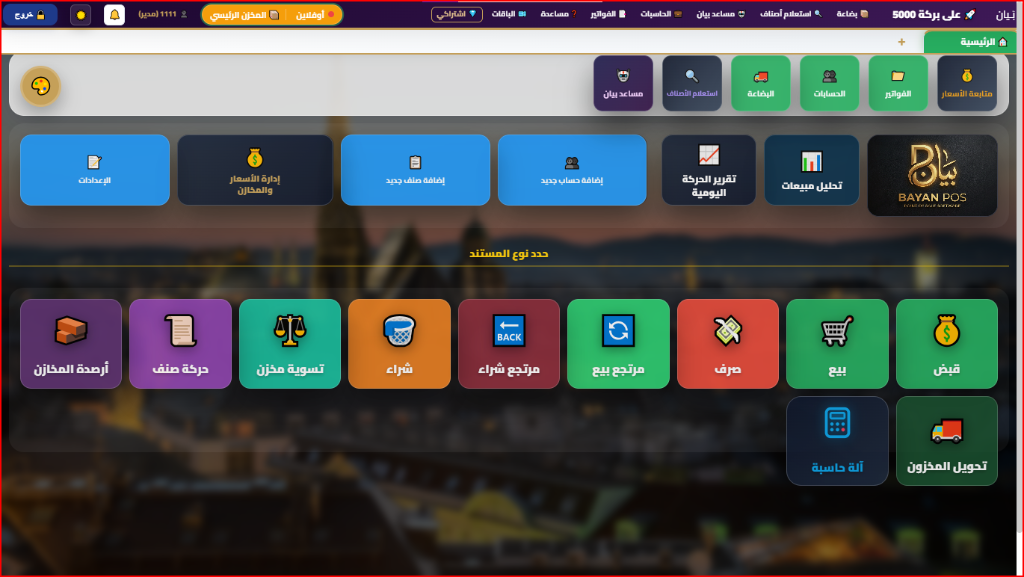
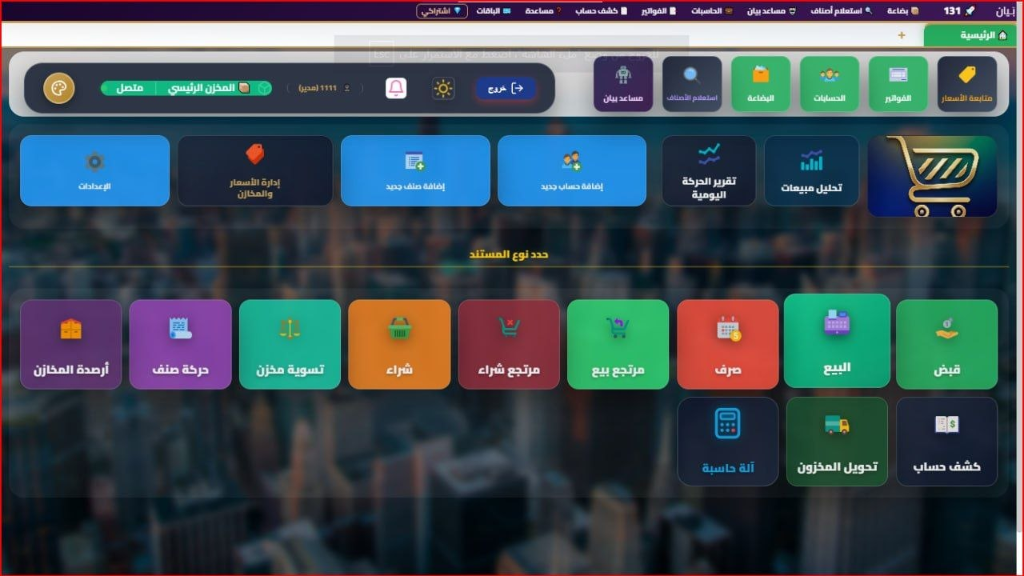
Add files via upload

diff --git a/script.js b/script.js
@@ -1,5 +1,5 @@
 // --- Theme Toggle Logic (Light / Luxury Dark) ---
-(function() {
+(function () {
     const themeKey = 'bayan_site_theme';
     const savedTheme = localStorage.getItem(themeKey);
     if (savedTheme === 'light') {
@@ -10,10 +10,10 @@
 document.addEventListener('DOMContentLoaded', () => {
     const themeToggleBtn = document.getElementById('themeToggle');
     const themeKey = 'bayan_site_theme';
-    
+
     if (themeToggleBtn) {
         const themeIcon = themeToggleBtn.querySelector('i');
-        
+
         const updateIcon = () => {
             if (document.body.classList.contains('light-mode')) {
                 themeIcon.classList.remove('fa-moon');
@@ -39,7 +39,7 @@ document.addEventListener('DOMContentLoaded', () => {
 });
 
 // --- Cache Busting / Auto Update Version Check ---
-(function() {
+(function () {
     const versionKey = 'bayan_site_version';
     const checkVersion = async () => {
         try {
@@ -69,7 +69,7 @@ document.addEventListener('DOMContentLoaded', () => {
 const mobileBtn = document.querySelector('.mobile-menu-btn');
 const navLinks = document.querySelector('.nav-links');
 
-if(mobileBtn && navLinks) {
+if (mobileBtn && navLinks) {
     mobileBtn.addEventListener('click', () => {
         navLinks.classList.toggle('active');
         const icon = mobileBtn.querySelector('i');
@@ -81,7 +81,7 @@ if(mobileBtn && navLinks) {
             icon.classList.add('fa-bars');
         }
     });
-    
+
     // Close menu when clicking on a link
     navLinks.querySelectorAll('a').forEach(link => {
         link.addEventListener('click', () => {
@@ -104,7 +104,7 @@ document.querySelectorAll('.faq-question').forEach(question => {
     question.addEventListener('click', () => {
         const item = question.parentElement;
         const isActive = item.classList.contains('active');
-        
+
         // Close all other FAQs
         document.querySelectorAll('.faq-item').forEach(otherItem => {
             otherItem.classList.remove('active');
@@ -134,9 +134,9 @@ const modal = document.getElementById("imageModal");
 const modalImg = document.getElementById("expandedImg");
 const closeBtn = document.getElementsByClassName("close-modal")[0];
 
-if(modal && modalImg && closeBtn) {
+if (modal && modalImg && closeBtn) {
     document.querySelectorAll('.screen-card img').forEach(img => {
-        img.addEventListener("click", function() {
+        img.addEventListener("click", function () {
             modal.style.display = "block";
             modalImg.src = this.src;
         });
@@ -161,15 +161,15 @@ const registrationForm = document.getElementById("registrationForm");
 const downloadSelection = document.getElementById("downloadSelection");
 
 function resetDownloadModal() {
-    if(registrationForm) {
+    if (registrationForm) {
         registrationForm.reset();
         registrationForm.style.display = "block";
     }
-    if(downloadSelection) {
+    if (downloadSelection) {
         downloadSelection.style.display = "none";
     }
     const androidWarning = document.getElementById("androidWarning");
-    if(androidWarning) {
+    if (androidWarning) {
         androidWarning.style.display = "none";
     }
 }
@@ -181,18 +181,18 @@ if (downloadModal && closeDownloadBtn) {
             e.preventDefault(); // منع التحميل المباشر المؤقت
             const platform = btn.getAttribute("data-platform");
             window.currentSelectedPlatform = platform;
-            
+
             resetDownloadModal(); // إعادة تهيئة النافذة
             downloadModal.style.display = "flex"; // عرض النافذة
-            
+
             // فحص إذا كان المستخدم مسجل مسبقاً على هذا المتصفح لتجنب التكرار
             const existingLeads = JSON.parse(localStorage.getItem("bayan_web_leads") || "[]");
             if (existingLeads.length > 0) {
-                if(registrationForm) registrationForm.style.display = "none";
-                if(platform) {
-                    startDownload({preventDefault:()=>{}}, platform);
+                if (registrationForm) registrationForm.style.display = "none";
+                if (platform) {
+                    startDownload({ preventDefault: () => { } }, platform);
                 } else {
-                    if(downloadSelection) downloadSelection.style.display = "block";
+                    if (downloadSelection) downloadSelection.style.display = "block";
                 }
             }
         });
@@ -211,9 +211,9 @@ if (downloadModal && closeDownloadBtn) {
 }
 
 // معالجة إرسال النموذج والتحميل
-window.handleRegistrationSubmit = function(event) {
+window.handleRegistrationSubmit = function (event) {
     event.preventDefault();
-    
+
     const name = document.getElementById("regName").value;
     const phone = document.getElementById("regPhone").value.trim();
     const businessType = document.getElementById("regBusinessType").value;
@@ -256,7 +256,7 @@ window.handleRegistrationSubmit = function(event) {
         platform: leadData.platform
     };
 
-    fetch("https://script.google.com/macros/s/AKfycbx9Gbq-gQWGWOeM7wvMS1oQ9fJNJgai0aUpByE14-83mPV3VVvoXaqygB_qZmmUtWNt/exec", {
+    fetch("https://script.google.com/macros/s/AKfycbz3BKpeOScHFRH_5r1T7xscjLCtGBiaFORV4ap9xpIecU2MuFUwNBN67DvEFScH1LnScQ/exec", {
         method: "POST",
         mode: "no-cors",
         headers: {
@@ -264,35 +264,35 @@ window.handleRegistrationSubmit = function(event) {
         },
         body: JSON.stringify(payload)
     })
-    .then(() => {
-        console.log("Data sent to Google Sheets successfully");
-        registrationForm.style.display = "none";
-        if (window.currentSelectedPlatform) {
-            startDownload({preventDefault:()=>{}}, window.currentSelectedPlatform);
-        } else {
-            downloadSelection.style.display = "block";
-        }
-    })
-    .catch(err => {
-        console.error("Error sending to Google Sheets:", err);
-        // الاستمرار في التحميل حتى لو فشل الاتصال كخيار احتياطي لضمان تجربة مستخدم سلسة
-        registrationForm.style.display = "none";
-        if (window.currentSelectedPlatform) {
-            startDownload({preventDefault:()=>{}}, window.currentSelectedPlatform);
-        } else {
-            downloadSelection.style.display = "block";
-        }
-    })
-    .finally(() => {
-        if (submitBtn) {
-            submitBtn.disabled = false;
-            submitBtn.innerHTML = originalBtnText;
-        }
-    });
+        .then(() => {
+            console.log("Data sent to Google Sheets successfully");
+            registrationForm.style.display = "none";
+            if (window.currentSelectedPlatform) {
+                startDownload({ preventDefault: () => { } }, window.currentSelectedPlatform);
+            } else {
+                downloadSelection.style.display = "block";
+            }
+        })
+        .catch(err => {
+            console.error("Error sending to Google Sheets:", err);
+            // الاستمرار في التحميل حتى لو فشل الاتصال كخيار احتياطي لضمان تجربة مستخدم سلسة
+            registrationForm.style.display = "none";
+            if (window.currentSelectedPlatform) {
+                startDownload({ preventDefault: () => { } }, window.currentSelectedPlatform);
+            } else {
+                downloadSelection.style.display = "block";
+            }
+        })
+        .finally(() => {
+            if (submitBtn) {
+                submitBtn.disabled = false;
+                submitBtn.innerHTML = originalBtnText;
+            }
+        });
 };
 
 // بدء التحميل حسب المنصة
-window.startDownload = function(event, platform) {
+window.startDownload = function (event, platform) {
     event.preventDefault();
     if (platform === 'windows') {
         // Google Analytics: تسجيل حدث تحميل الويندوز
@@ -315,7 +315,7 @@ window.startDownload = function(event, platform) {
         }
         const downloadSelection = document.getElementById("downloadSelection");
         const androidWarning = document.getElementById("androidWarning");
-        if(downloadSelection && androidWarning) {
+        if (downloadSelection && androidWarning) {
             downloadSelection.style.display = "none";
             androidWarning.style.display = "block";
         }
@@ -347,7 +347,7 @@ document.addEventListener("DOMContentLoaded", () => {
         rootMargin: '0px',
         threshold: 0.15
     };
-    
+
     const revealObserver = new IntersectionObserver((entries, observer) => {
         entries.forEach(entry => {
             if (entry.isIntersecting) {
@@ -368,11 +368,11 @@ document.addEventListener("DOMContentLoaded", () => {
     if (!reviewsContainer) return;
 
     // الرابط اللي هيجيب منه الآراء (هيتم تغييره برابط Google Apps Script أو السيرفر الخاص بك)
-    const REVIEWS_API_URL = "YOUR_SERVER_API_URL_HERE"; 
+    const REVIEWS_API_URL = "YOUR_SERVER_API_URL_HERE";
 
     function renderReviews(reviews) {
         reviewsContainer.innerHTML = ''; // تفريغ رسالة التحميل
-        
+
         if (!reviews || reviews.length === 0) {
             reviewsContainer.innerHTML = `
                 <div style="text-align: center; grid-column: 1 / -1; color: var(--text-gray); padding: 40px;">
@@ -384,7 +384,7 @@ document.addEventListener("DOMContentLoaded", () => {
 
         reviews.forEach(review => {
             const initial = review.name.charAt(0);
-            const stars = Array(5).fill(0).map((_, i) => 
+            const stars = Array(5).fill(0).map((_, i) =>
                 `<i class="fa-solid fa-star" style="color: ${i < review.rating ? '#fbbf24' : '#475569'}"></i>`
             ).join('');
 
@@ -420,7 +420,7 @@ document.addEventListener("DOMContentLoaded", () => {
     // محاولة جلب البيانات من السيرفر
     fetch(REVIEWS_API_URL)
         .then(response => {
-            if(!response.ok) throw new Error("API not ready");
+            if (!response.ok) throw new Error("API not ready");
             return response.json();
         })
         .then(data => {

diff --git a/index.html b/index.html
@@ -470,64 +470,83 @@
         <div class="container">
             <div class="section-title">
                 <h2>مراحل تطوير <span>التطبيق</span></h2>
-                <p>سجل التحديثات وخارطة الطريق المستمرة لنظام Bayan POS</p>
+                <p>اضغط على أي مرحلة لاستعراض التحديثات والتحسينات المنجزة بها</p>
             </div>
             
             <div class="timeline">
                 <!-- 1. First Phase: v1.0.0 (15 July 2026) -->
-                <div class="timeline-item active">
+                <div class="timeline-item active collapsible-timeline">
                     <div class="timeline-dot">
                         <i class="fa-solid fa-rocket"></i>
                     </div>
                     <div class="timeline-content">
-                        <div class="timeline-date">تم الإصدار (15 يوليو 2026)</div>
-                        <h3>الإصدار الأول v1.0.0 🚀</h3>
-                        <p>تم إطلاق النسخة النهائية والمستقرة الأولى من النظام للويندوز بنجاح. تتضمن مراجعة شاملة للواجهات، اختبار الأداء، وضمان تجربة مستخدم سلسة واحترافية.</p>
-                        <div class="timeline-tags">
-                            <span>يعمل بدون إنترنت (Offline)</span>
-                            <span>استقرار وأمان للبيانات</span>
-                            <span>سرعة فائقة في البيع</span>
+                        <div class="timeline-header" onclick="toggleTimelineItem(this)">
+                            <div style="flex:1;">
+                                <div class="timeline-date">تم الإصدار (15 يوليو 2026)</div>
+                                <h3 style="margin: 0; font-size: 1.25rem;">الإصدار الأول v1.0.0 🚀</h3>
+                            </div>
+                            <div class="timeline-toggle-btn"><i class="fa-solid fa-chevron-down"></i></div>
+                        </div>
+                        <div class="timeline-details">
+                            <p style="margin-top: 10px; color: #475569;">تم إطلاق النسخة النهائية والمستقرة الأولى من النظام للويندوز بنجاح. تتضمن مراجعة شاملة للواجهات، اختبار الأداء، وضمان تجربة مستخدم سلسة واحترافية.</p>
+                            <div class="timeline-tags" style="margin-top: 10px;">
+                                <span>يعمل بدون إنترنت (Offline)</span>
+                                <span>استقرار وأمان للبيانات</span>
+                                <span>سرعة فائقة في البيع</span>
+                            </div>
                         </div>
                     </div>
                 </div>
 
                 <!-- 2. Second Phase: v1.0.1 Today (22 July 2026) -->
-                <div class="timeline-item active" style="border-right: 4px solid #10b981; margin-top: 25px;">
+                <div class="timeline-item active collapsible-timeline open" style="border-right: 4px solid #10b981; margin-top: 20px;">
                     <div class="timeline-dot" style="background: #10b981;">
                         <i class="fa-solid fa-wand-magic-sparkles"></i>
                     </div>
                     <div class="timeline-content">
-                        <div class="timeline-date" style="color: #10b981; font-weight: bold; font-size: 1.05rem;">تم الإصدار (22 يوليو 2026 - الإصدار 1.0.1) 🌟</div>
-                        <h3 style="color: #10b981; font-size: 1.35rem;">الإصدار v1.0.1 - التدوير التلقائي والتحديثات المستقرة 🛠️</h3>
-                        <p style="font-weight: 600; color: #334155; margin-bottom: 8px;">تم إطلاق تحديث اليوم الشامل متضمناً التحسينات والميزات التالية:</p>
-                        <ul style="list-style: disc; margin-right: 20px; font-size: 0.95rem; line-height: 1.7; color: #475569;">
-                            <li><strong>إدارة تدوير النسخ الاحتياطية تلقائياً:</strong> حفظ آخر 100 نسخة حذف الأقدم آلياً دون تدخل المستخدم.</li>
-                            <li><strong>عرض مسار ومجلد الحفظ:</strong> إظهار مسار المجلد الحقيقي <code>C:\Users\username\bayan_backups</code> وميزة الفتح الفوري للمجلد.</li>
-                            <li><strong>تفعيل صلاحيات التاريخ المسبق:</strong> فتح واستمرار إدخال العمليات بتاريخ سابق تلقائياً عند التشغيل.</li>
-                            <li><strong>تصفية السداد النقدي:</strong> شمول كافة مسميات وطرق البيع والسداد النقدي.</li>
-                            <li><strong>تثبيت جدول أرصدة المخازن:</strong> إلغاء الاهتزاز (Flickering) وتثبيت الأبعاد والبادينج عند مرمر الماوس.</li>
-                            <li><strong>تطوير كشف الحساب التفصيلي:</strong> عمود تاريخ التعديل، وتصحيح الخصم، وسلاسة الفلاتر وإصلاح زر إغلاق القسم.</li>
-                        </ul>
-                        <div class="timeline-tags" style="margin-top: 10px;">
-                            <span style="background: rgba(16,185,129,0.15); color: #10b981;">تدوير النسخ الاحتياطية</span>
-                            <span style="background: rgba(16,185,129,0.15); color: #10b981;">استقرار الصلاحيات</span>
-                            <span style="background: rgba(16,185,129,0.15); color: #10b981;">كشف حساب تفصيلي</span>
+                        <div class="timeline-header" onclick="toggleTimelineItem(this)">
+                            <div style="flex:1;">
+                                <div class="timeline-date" style="color: #10b981; font-weight: bold;">تم الإصدار (22 يوليو 2026 - الإصدار 1.0.1) 🌟</div>
+                                <h3 style="color: #10b981; margin: 0; font-size: 1.25rem;">الإصدار v1.0.1 - التدوير التلقائي والتحديثات المستقرة 🛠️</h3>
+                            </div>
+                            <div class="timeline-toggle-btn" style="color: #10b981;"><i class="fa-solid fa-chevron-down"></i></div>
+                        </div>
+                        <div class="timeline-details">
+                            <p style="font-weight: bold; color: #334155; margin-top: 10px; margin-bottom: 8px;">أبرز التحسينات والتطويرات المنجزة في هذا الإصدار:</p>
+                            <ul style="list-style: none; padding: 0; font-size: 0.95rem; line-height: 1.8; color: #334155;">
+                                <li style="margin-bottom: 6px;">⚡ <strong>قسم النسخ الاحتياطية:</strong> تم تطوير الإدارة التلقائية للنسخ الاحتياطية وتدوير الملفات مع ميزة فتح المجلد المباشر.</li>
+                                <li style="margin-bottom: 6px;">⚡ <strong>قسم كشف الحساب التفصيلي:</strong> تم تحسين أداء وسلاسة التقرير وإضافة عمود تاريخ التعديل والخصم وإصلاح زر الإغلاق.</li>
+                                <li style="margin-bottom: 6px;">⚡ <strong>قسم المخازن والأصناف:</strong> تم تحسين وتثبيت جداول أرصدة المخازن لضمان الاستجابة السريعة ومنع أي اهتزاز.</li>
+                                <li style="margin-bottom: 6px;">⚡ <strong>قسم الصلاحيات والمبيعات:</strong> تم تحسين استقرار صلاحيات التاريخ المسبق وسلاسة تصفية فواتير السداد النقدي.</li>
+                            </ul>
+                            <div class="timeline-tags" style="margin-top: 10px;">
+                                <span style="background: rgba(16,185,129,0.15); color: #10b981;">نظام تدوير النسخ</span>
+                                <span style="background: rgba(16,185,129,0.15); color: #10b981;">استقرار الصلاحيات</span>
+                                <span style="background: rgba(16,185,129,0.15); color: #10b981;">كشف حساب تفصيلي</span>
+                            </div>
                         </div>
                     </div>
                 </div>
 
                 <!-- 3. Third Phase: Future Updates (1 September 2026 - 1/9) -->
-                <div class="timeline-item pending" style="border: 2px solid #ff9800; box-shadow: 0 0 20px rgba(255, 152, 0, 0.4); border-radius: 10px; padding: 15px; margin-top: 25px; animation: pulse 2s infinite;">
+                <div class="timeline-item pending collapsible-timeline" style="border: 2px solid #ff9800; box-shadow: 0 0 20px rgba(255, 152, 0, 0.3); border-radius: 12px; padding: 5px; margin-top: 20px;">
                     <div class="timeline-dot" style="background: #ff9800; color: #fff; box-shadow: 0 0 15px #ff9800;">
                         <i class="fa-solid fa-fire"></i>
                     </div>
                     <div class="timeline-content">
-                        <div class="timeline-date" style="color: #ff9800; font-weight: bold; font-size: 1.1rem;">1 سبتمبر 2026 (1/9)</div>
-                        <h3 style="color: #ff9800; font-size: 1.5rem;">🔥 تحديثات ضخمة وميزات خرافية قادمة!</h3>
-                        <p style="font-size: 1.05rem; font-weight: bold;">ترقبوا إطلاق أقوى التحديثات والميزات الجديدة التي ستنقل تجربة استخدام Bayan POS إلى مستوى آخر تماماً. سيتم نشر التفاصيل قريباً...</p>
-                        <div class="timeline-tags">
-                            <span style="background: rgba(255, 152, 0, 0.2); color: #ff9800; border: 1px solid #ff9800;">🚀 ترقبوا الحدث</span>
-                            <span style="background: rgba(255, 152, 0, 0.2); color: #ff9800; border: 1px solid #ff9800;">✨ مميزات جديدة</span>
+                        <div class="timeline-header" onclick="toggleTimelineItem(this)">
+                            <div style="flex:1;">
+                                <div class="timeline-date" style="color: #ff9800; font-weight: bold;">1 سبتمبر 2026 (1/9)</div>
+                                <h3 style="color: #ff9800; margin: 0; font-size: 1.3rem;">🔥 تحديثات ضخمة وميزات خرافية قادمة!</h3>
+                            </div>
+                            <div class="timeline-toggle-btn" style="color: #ff9800;"><i class="fa-solid fa-chevron-down"></i></div>
+                        </div>
+                        <div class="timeline-details">
+                            <p style="font-size: 1.05rem; font-weight: bold; margin-top: 10px; color: #334155;">ترقبوا إطلاق أقوى التحديثات والميزات الجديدة التي ستنقل تجربة استخدام Bayan POS إلى مستوى آخر تماماً. سيتم نشر التفاصيل قريباً...</p>
+                            <div class="timeline-tags" style="margin-top: 10px;">
+                                <span style="background: rgba(255, 152, 0, 0.2); color: #ff9800; border: 1px solid #ff9800;">🚀 ترقبوا الحدث</span>
+                                <span style="background: rgba(255, 152, 0, 0.2); color: #ff9800; border: 1px solid #ff9800;">✨ مميزات جديدة</span>
+                            </div>
                         </div>
                     </div>
                 </div>